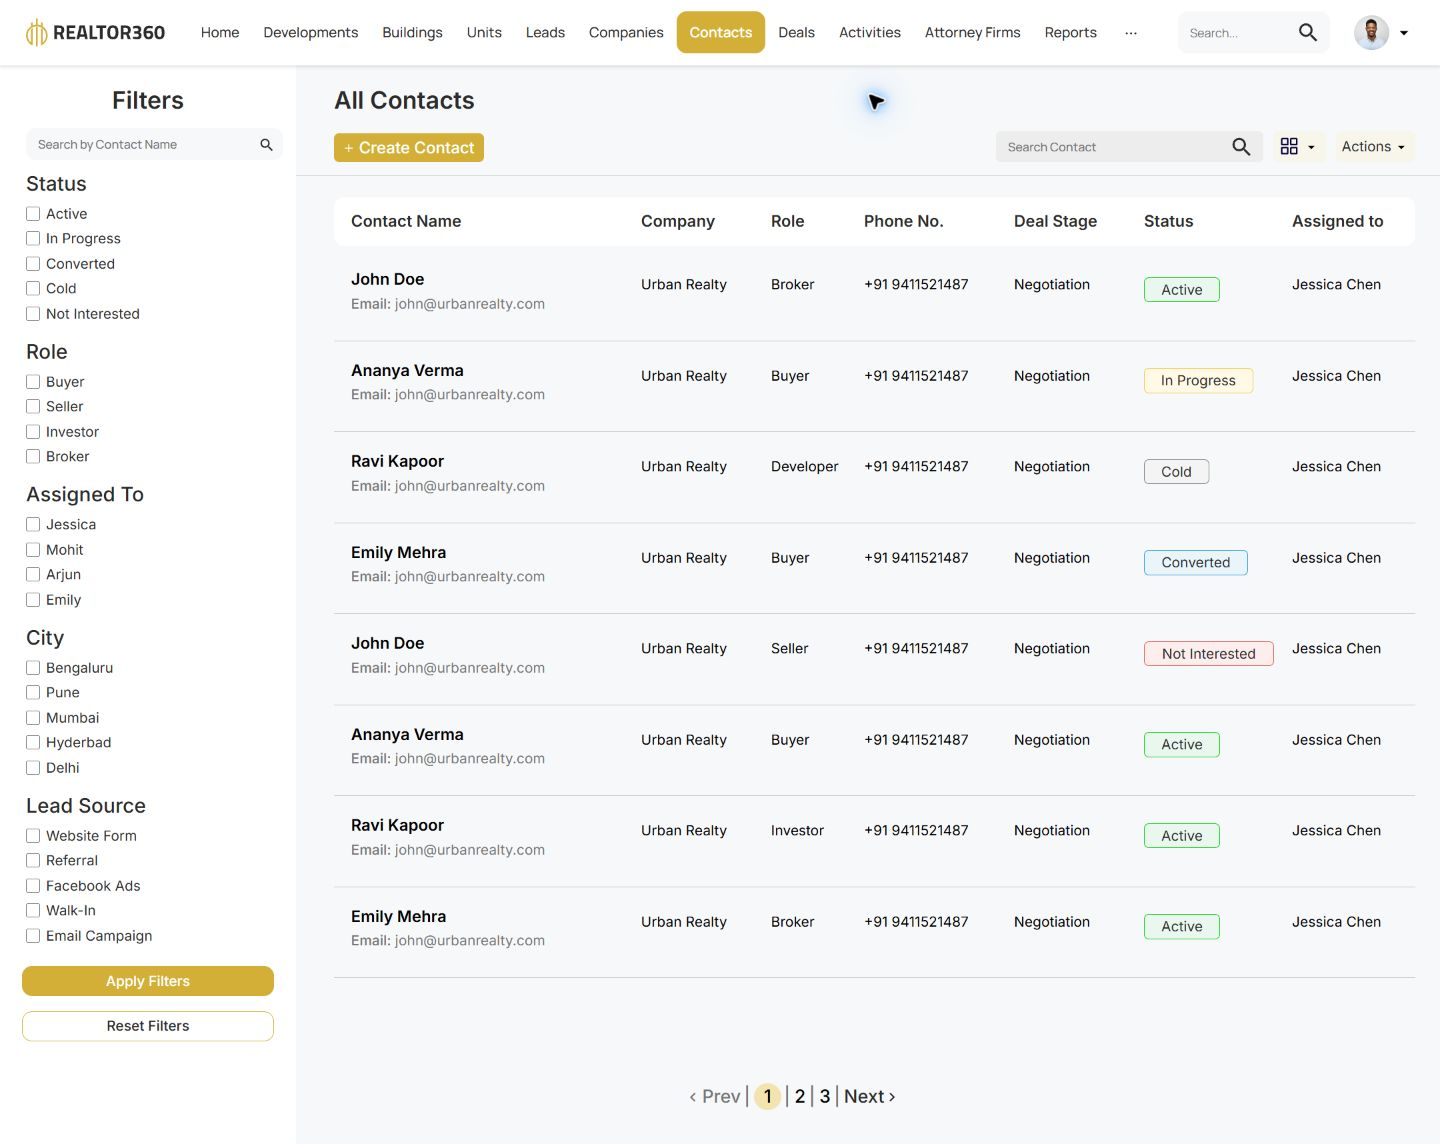
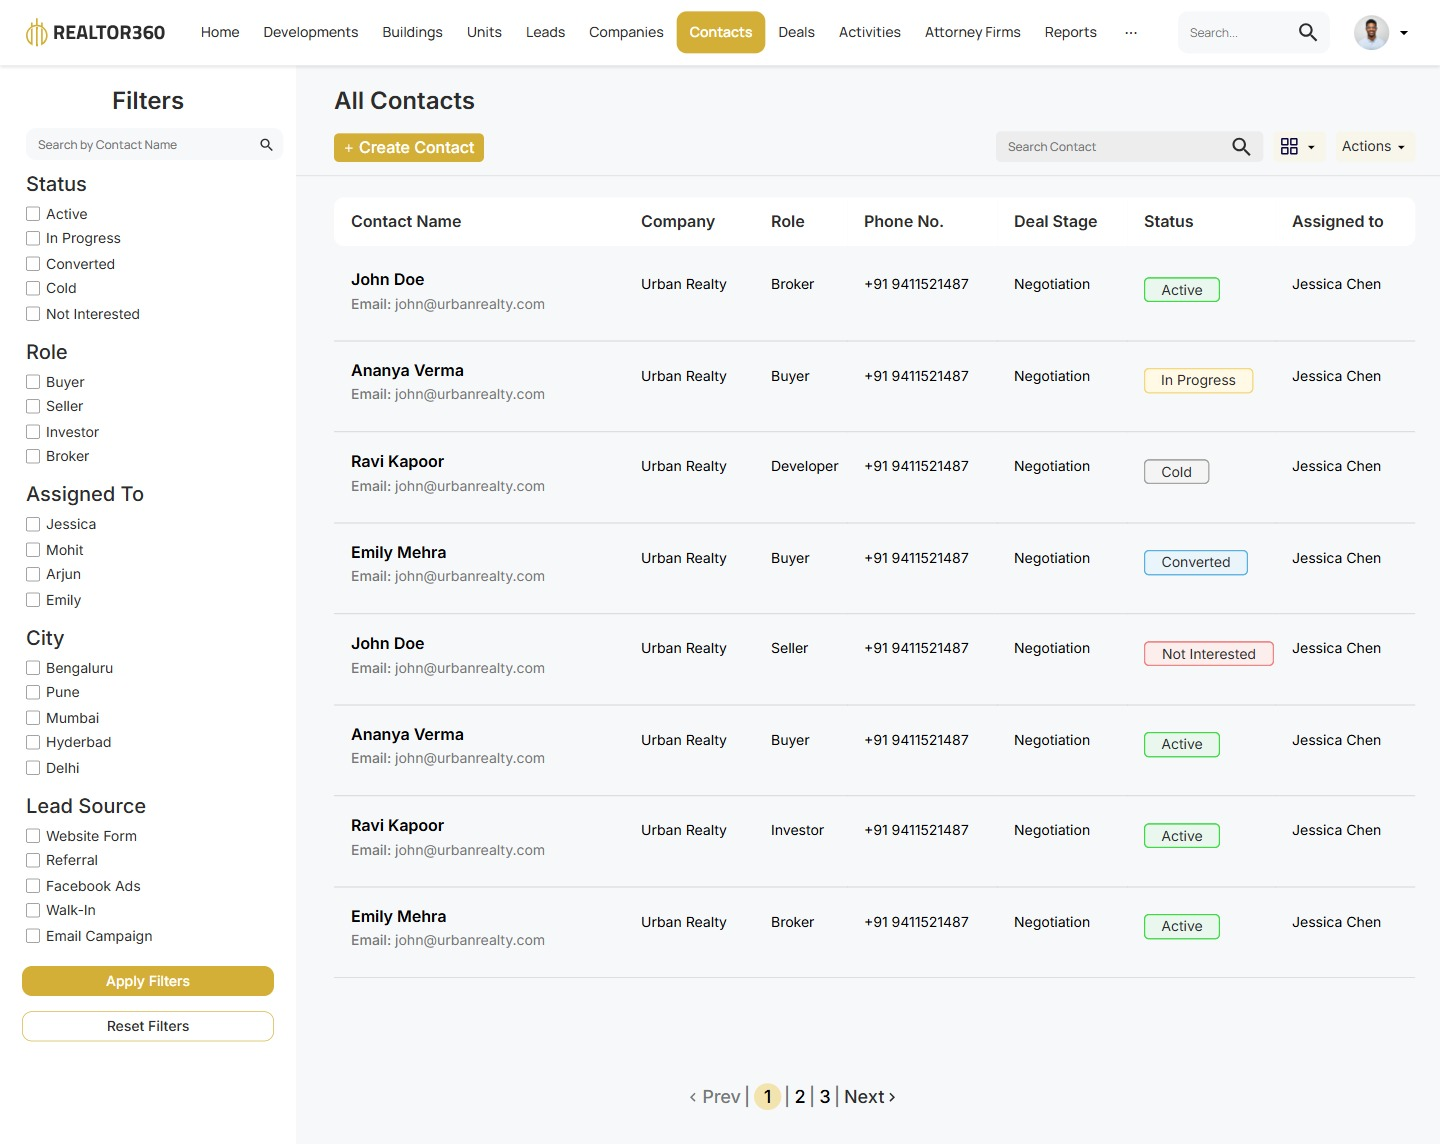
Fix calendar overflow and refine status styling with updated previews

diff --git a/src/styles.css b/src/styles.css
@@ -434,24 +434,15 @@ th {
   width: 42.6%;
   border-radius: 10px;
   background: linear-gradient(90deg, #d4af37, #eee8cf);
-  border-right: 1px dashed #d4af37;
   position: relative;
 }
-.progress-track > div:after,
-.progress-track > div:before {
-  content: "";
+.progress-marker {
   position: absolute;
-  right: -2px;
+  left: calc(100% - 1px);
+  top: -3px;
   width: 3px;
-  height: 3px;
-  border-radius: 50%;
-  background: var(--gold);
-}
-.progress-track > div:before {
-  top: -2px;
-}
-.progress-track > div:after {
-  bottom: -2px;
+  height: calc(100% + 6px);
+  color: var(--gold);
 }
 .progress-summary {
   display: flex;
@@ -741,24 +732,27 @@ th {
   overflow: hidden;
 }
 .calendar-heading {
-  height: 82px;
-  padding: 18px 10px 0 17px;
+  min-height: 82px;
+  padding: 18px 10px 27px 17px;
   display: flex;
   align-items: flex-start;
   justify-content: space-between;
   gap: 4px;
 }
 .calendar-heading h2 {
+  min-width: 0;
   font-size: 30px;
   line-height: 37px;
-  white-space: nowrap;
+  white-space: normal;
 }
 .calendar-heading > div {
   display: flex;
+  flex-shrink: 0;
   gap: 24px;
   margin-top: 3px;
 }
 .calendar-heading button {
+  flex-shrink: 0;
   width: 28px;
   height: 28px;
 }
@@ -837,20 +831,22 @@ th {
   margin-top: 15px;
 }
 .schedule-item {
+  --schedule-accent: #0eeabe;
   text-align: left;
   border-radius: 10px;
-  border-left: 1px solid #00d6ae;
+  background: white;
+  box-shadow: inset 2px 0 0 var(--schedule-accent);
   min-height: 50px;
-  padding: 9px 9px;
+  padding: 9px 9px 9px 10px;
   font-size: 14px;
   line-height: 17px;
   width: 100%;
 }
 .schedule-item.followup {
-  border-left-color: #fb7daf;
+  --schedule-accent: #e192ad;
 }
 .schedule-item.offer {
-  border-left-color: #ead300;
+  --schedule-accent: #ffe100;
 }
 .schedule-item small {
   display: block;
@@ -1125,9 +1121,6 @@ th {
   }
   .bottom-grid {
     grid-template-columns: minmax(0, 1fr) 258px;
-  }
-  .calendar-heading {
-    height: 82px;
   }
   .calendar-heading h2 {
     font-size: 30px;

diff --git a/src/App.tsx b/src/App.tsx
@@ -868,7 +868,33 @@ export default function App() {
                     aria-valuemax={174}
                     aria-valuenow={42}
                   >
-                    <div />
+                    <div>
+                      <svg
+                        className="progress-marker"
+                        viewBox="0 0 3 49"
+                        aria-hidden="true"
+                        focusable="false"
+                      >
+                        <circle
+                          cx="1.5"
+                          cy="1.5"
+                          r="1"
+                          fill="currentColor"
+                          stroke="currentColor"
+                        />
+                        <path
+                          d="M1.5 3V5.687M1.5 46V43.312M1.5 11.062V16.437M1.5 21.812V27.187M1.5 32.562V37.937"
+                          stroke="currentColor"
+                        />
+                        <circle
+                          cx="1.5"
+                          cy="47.5"
+                          r="1"
+                          fill="currentColor"
+                          stroke="currentColor"
+                        />
+                      </svg>
+                    </div>
                   </div>
                   <div className="progress-summary">
                     <span>

diff --git a/src/contacts.css b/src/contacts.css
@@ -286,12 +286,14 @@
   font-weight: 500;
 }
 .directory-status {
+  --status-border: #2c2c2c;
   display: inline-flex;
   align-items: center;
   justify-content: center;
   height: 25px;
   padding: 0 16px;
-  border: 1px solid;
+  border: 1px solid var(--status-border);
+  box-shadow: inset 0 0 0 0.5px var(--status-border);
   border-radius: 5px;
   font-size: 14px;
   line-height: 17px;
@@ -301,27 +303,27 @@
 }
 .directory-status.active {
   background: #e9f7ef;
-  border-color: #0dd112;
+  --status-border: #0dd112;
   min-width: 76px;
 }
 .directory-status.in-progress {
   background: #fff9e6;
-  border-color: #f2c94c;
+  --status-border: #f2c94c;
   min-width: 109px;
 }
 .directory-status.cold {
   background: #f4f4f4;
-  border-color: #828282;
+  --status-border: #828282;
   min-width: 65px;
 }
 .directory-status.converted {
   background: #eaf4fb;
-  border-color: #2d9cdb;
+  --status-border: #2d9cdb;
   min-width: 104px;
 }
 .directory-status.not-interested {
   background: #fdeeee;
-  border-color: #eb5757;
+  --status-border: #eb5757;
   min-width: 130px;
 }
 .contacts-pagination {

diff --git a/docs/verification.md b/docs/verification.md
@@ -28,7 +28,11 @@ At a 1440 × 1182 browser viewport, measured DOM rectangles match the exported f
 
 Original source assets are stored locally, with original geometry and dependent SVG definitions preserved. All visible images loaded successfully. Font loading was confirmed before the final screenshots. No browser console warnings or errors were recorded during interaction checks.
 
+Schedule accents match the SVG's 2 px inset shadows: visits `#0eeabe`, follow-ups `#e192ad`, and offers `#ffe100`. The closed-deals progress endpoint uses the SVG's straight dash segments and two endpoint dots rather than a dashed border around the rounded fill.
+
 Desktop and mobile screenshots: [desktop](desktop-preview.jpg), [mobile](mobile-preview.jpg).
+
+Screenshots refreshed after the calendar and visual refinements: Home at 1440 × 1182, Contacts at 1440 × 1144, and the mobile dashboard in a 390 px wide viewport. Fonts and images finished loading before capture.
 
 ## Functional browser checks
 
@@ -37,6 +41,7 @@ Desktop and mobile screenshots: [desktop](desktop-preview.jpg), [mobile](mobile-
 - Sorting by Views produces Maplewood House, Rosehill Cottage, Skyline Edge, Serenity Villa in ascending order.
 - Selecting Angel Plaza in a chart legend updates both legends and leaves only the Angel Plaza pipeline row with 3 records; clearing restores all rows.
 - Advancing the calendar shows August 2025 with an empty schedule; returning to July and selecting July 10 shows the two client visits. Show all restores the full schedule.
+- Calendar header regression: February previously clipped the next-month arrow at 1440 px. Longer month titles now wrap while both 28 px arrow buttons keep their space. Checked all 12 months at 320, 390, 768, 1150, 1151, 1280, 1350, 1366, 1440, and 1920 px; both arrows stay inside the card and viewport, and titles do not overlap the calendar grid.
 - Marking a reminder complete survives a page reload. Reset completed reminders restores the initial state.
 - Jessica Chen's contact dialog shows the supplied email and location.
 - Mobile navigation exposes all primary destinations and closes when a destination is chosen.
@@ -47,6 +52,8 @@ Desktop and mobile screenshots: [desktop](desktop-preview.jpg), [mobile](mobile-
 Reference: node `28:430`, 1440 × 1144, measured using view-only PNG/SVG exports.
 
 The browser matches the 296 px sidebar, toolbar at y=65 with height 111, table header at (334,197) with dimensions 1081 × 49, first row height 95, and seven subsequent rows of height 91. Row boundaries are y=341,432,523,614,705,796,887,978. Filter buttons start at (22,966), width 252. Pagination sits at y=1083. All images and local fonts loaded, with no console warnings or errors.
+
+Status badge outlines retain the source's 1 px border and add a matching 0.5 px inset stroke for the requested stronger appearance. Checked all five statuses at 1440 px; original colors and 25 px badge heights are preserved, with no width or height changes.
 
 - Searching Ananya returns two records; Active returns four; Active plus Buyer returns one (Ananya Verma). Reset restores all eight.
 - Global search for Ravi returns two records. Sorting Contact Name orders Ananya, Emily, John, Ravi.

diff --git a/README.md b/README.md
@@ -6,6 +6,8 @@ A responsive React + TypeScript implementation of the Realtor360 **Home and Cont
 
 ![Realtor360 contacts](docs/contacts-preview.jpg)
 
+[Mobile dashboard preview](docs/mobile-preview.jpg)
+
 ## Run locally
 
 Requires Node.js 20.19+ or 22.12+ and npm.
